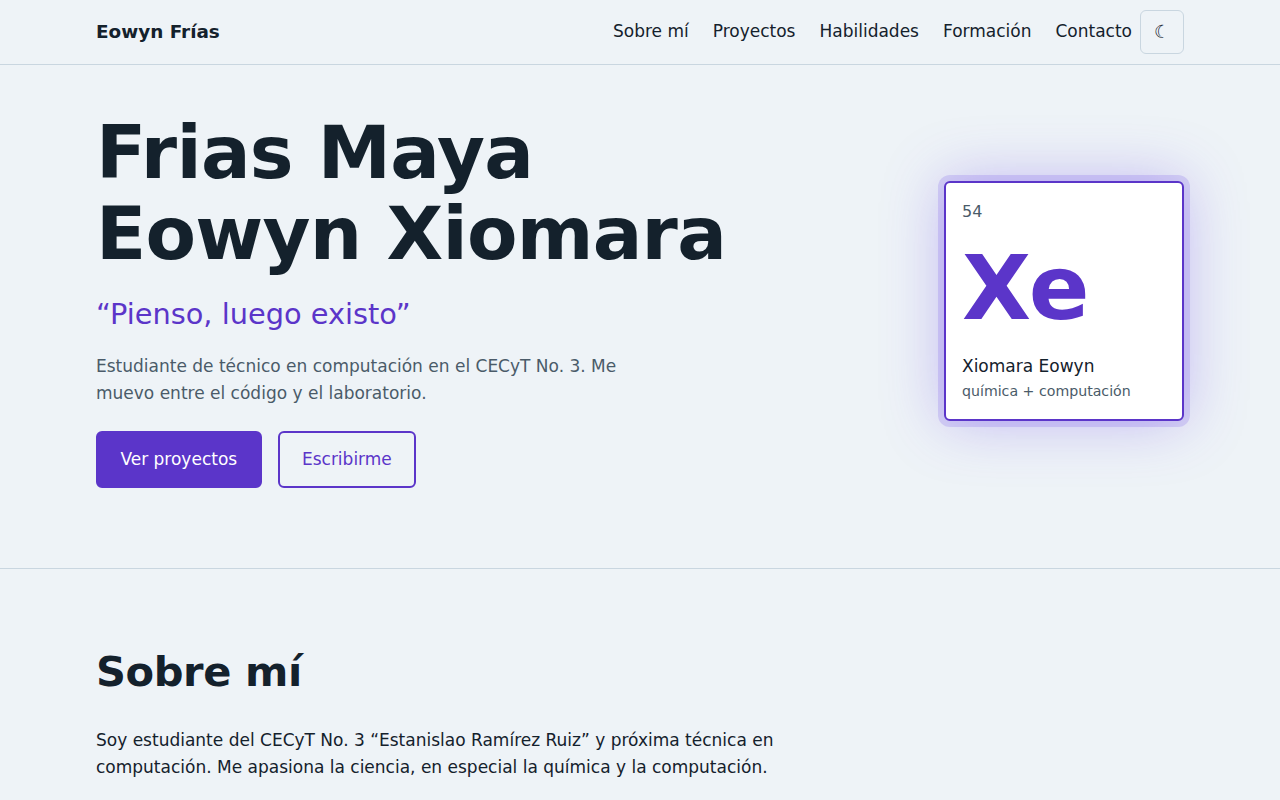
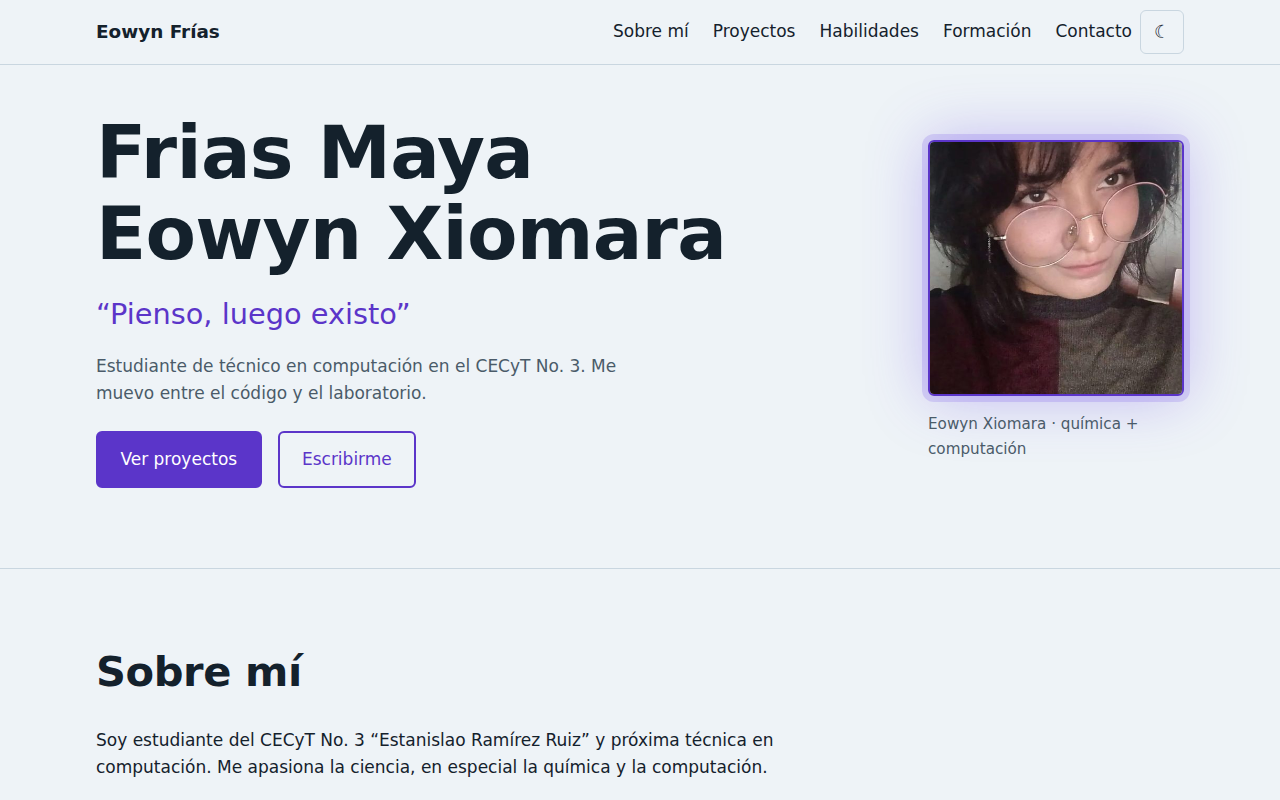
Add files via upload

Changed region(s): [[0.7188, 0.1562, 0.9375, 0.5938]]

diff --git a/README.md b/README.md
@@ -2,8 +2,8 @@
 
 Sitio web personal construido con HTML5 semántico, CSS3 moderno y JavaScript vanilla.
 
-## 🚀[friasmayaeowynxiomara-cmyk.github.io/portafolio-eowyn](https://friasmayaeowynxiomara-cmyk.github.io/portafolio-eowyn/)
-[TU-URL-PUBLICA](https://tu-url-publica)
+## 🚀 Demo en vivo
+[friasmayaeowynxiomara-cmyk.github.io/portafolio-eowyn](https://friasmayaeowynxiomara-cmyk.github.io/portafolio-eowyn/)
 
 ## ✨ Características
 - HTML5 semántico
@@ -25,11 +25,11 @@ Sitio web personal construido con HTML5 semántico, CSS3 moderno y JavaScript va
 ## 📊 Resultados Lighthouse
 | Accessibility | Best Practices | Performance | SEO |
 |---|---|---|---|
-| 90 | 100 | 100 | 100 |
+| __ | __ | __ | __ |
 
 ## 🎓 Aprendizaje
 Proyecto del Capítulo 1: Fundamentos del Web FullStack, hecho como parte del curso de programación.
 
 ## 📬 Contacto
 - Email: friasmayaeowynxiomara@gmail.com
-- GitHub: friasmayaeowynxiomara-cmyk
+- GitHub: [tu-usuario]
